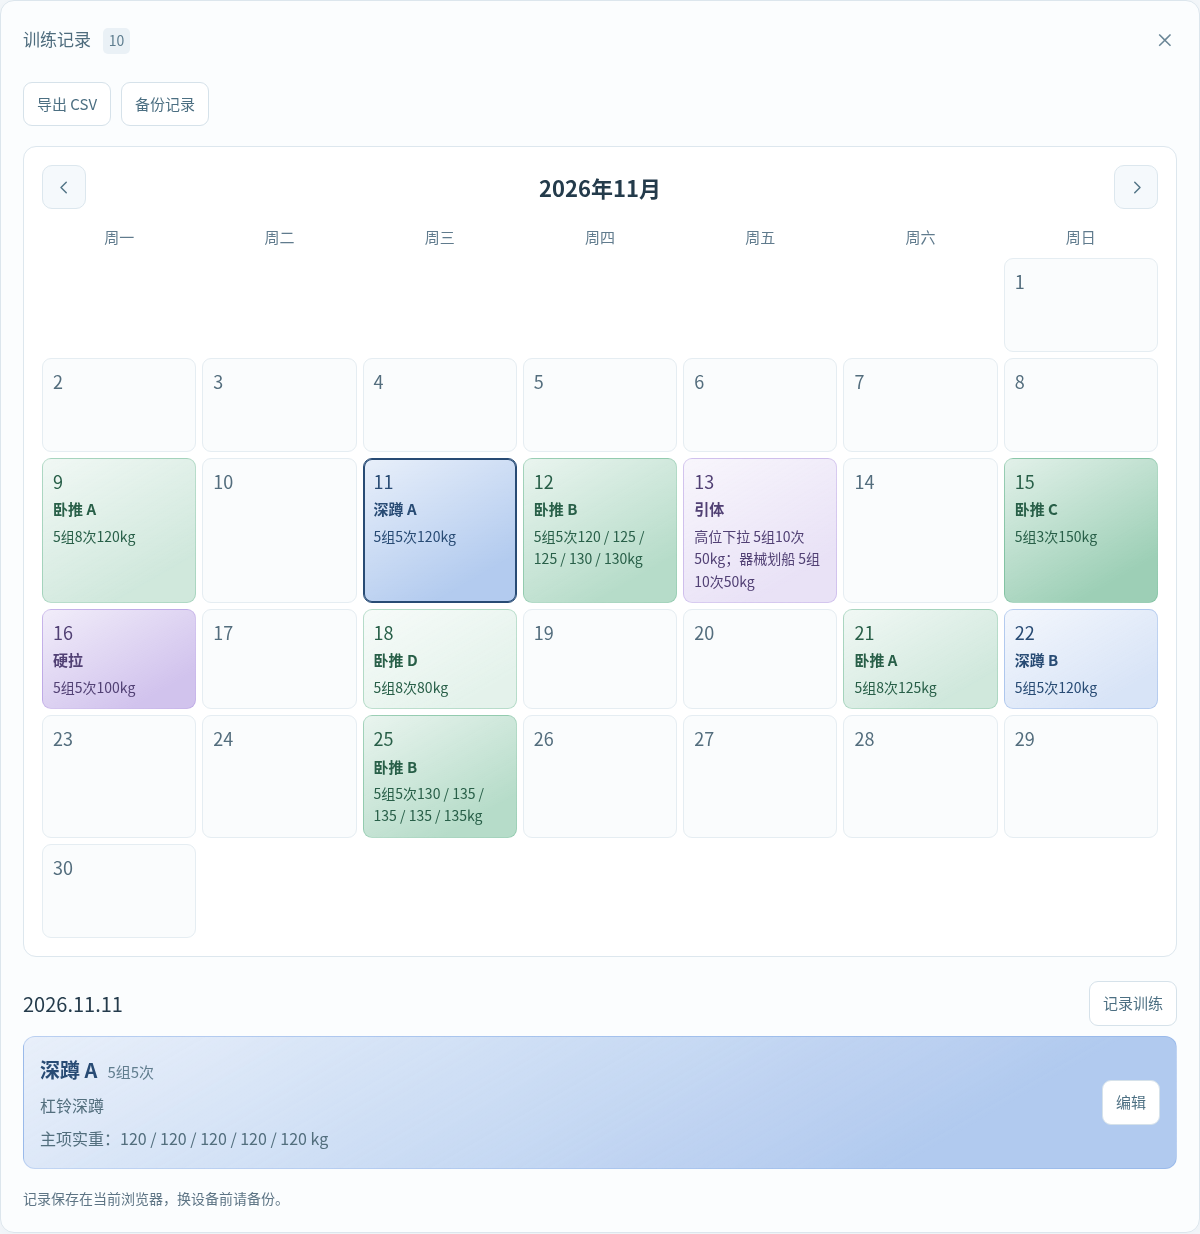
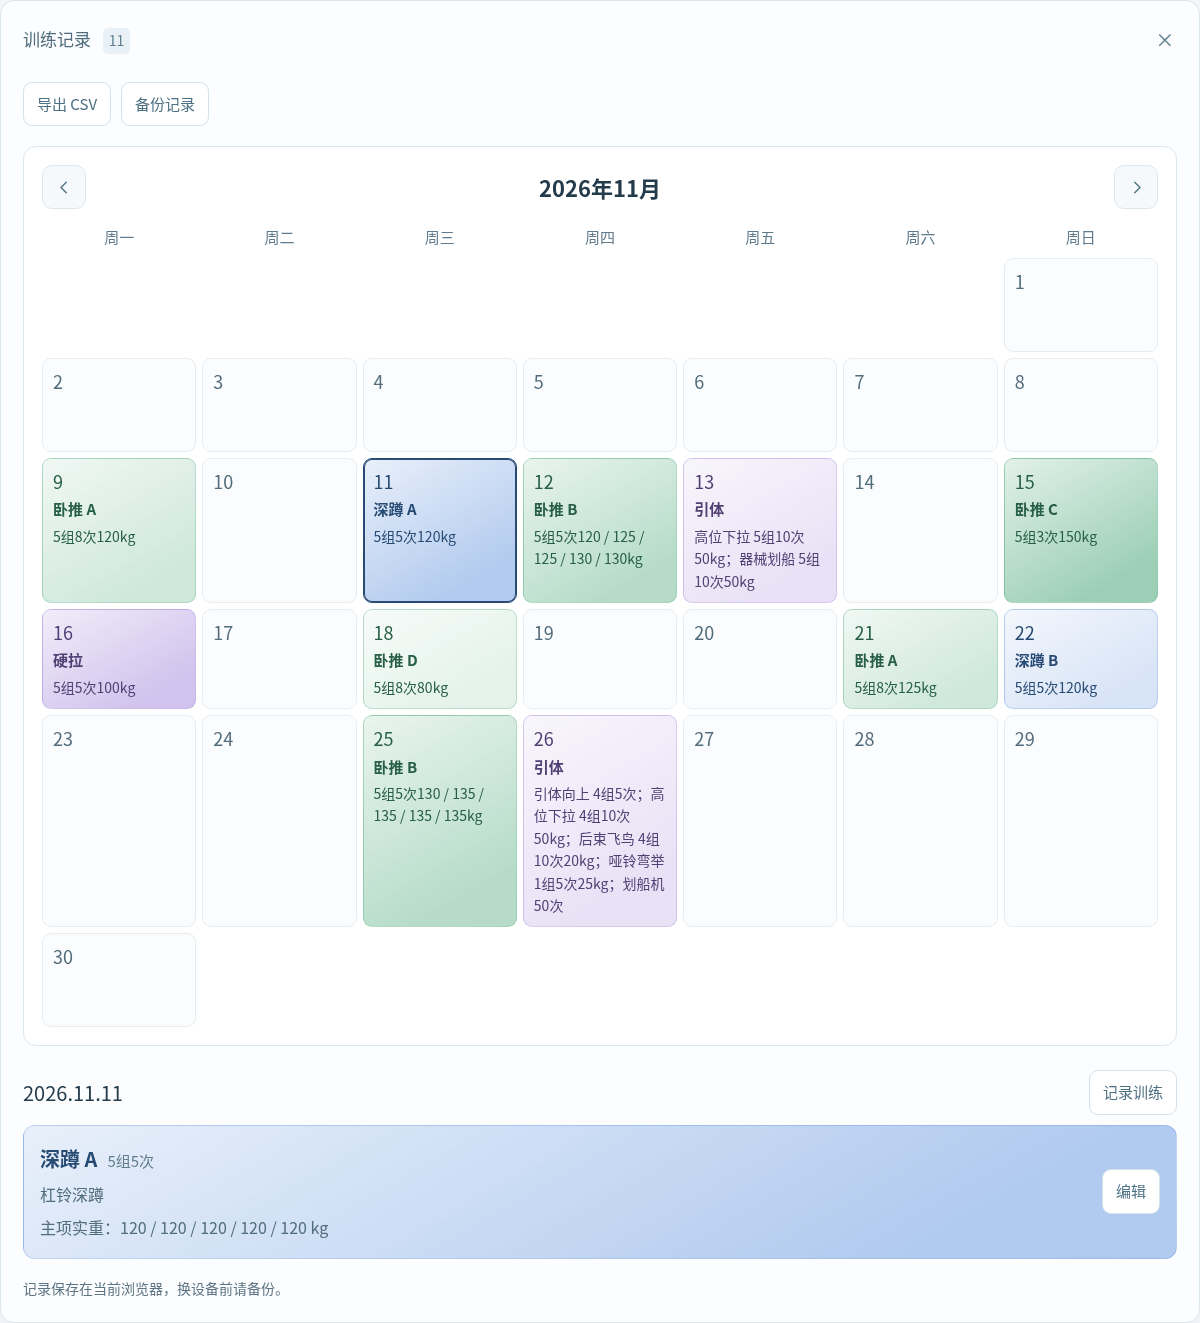
记录11月26日引体日五项训练

diff --git a/index.html b/index.html
@@ -372,7 +372,7 @@ input:disabled,select:disabled { background: #eef4f8; color: #718b9b; }
       <div class="dialog-heading"><h2 id="workout-title">训练记录</h2><button type="button" class="icon-button" id="closeWorkout" aria-label="关闭"><svg class="icon"><use href="#i-close" /></svg></button></div>
       <article id="sessionCard"></article>
     </dialog>
[2 lines of base64/hex data omitted]
     <script>
 /* 固定训练模板。参考重量不参与实际训练记录的计算。 */
 (function (root) {
@@ -414,9 +414,10 @@ input:disabled,select:disabled { background: #eef4f8; color: #718b9b; }
     return !Number.isNaN(d.getTime()) && `${d.getFullYear()}-${String(d.getMonth() + 1).padStart(2, "0")}-${String(d.getDate()).padStart(2, "0")}` === value;
   }
   function dose(exercise) {
-    if (!exercise?.sets) return "";
+    if (!exercise) return "";
     const reps = String(exercise.reps || "").replace(/\s*\/\s*腿/g, "");
-    return `${exercise.sets}组${reps ? `${reps}次` : ""}${exercise.perLeg || /\/\s*腿/.test(exercise.reps || "") ? "（每腿）" : ""}`;
+    const sets = exercise.sets ? `${exercise.sets}组` : "";
+    return `${sets}${reps ? `${reps}次` : ""}${exercise.perLeg || /\/\s*腿/.test(exercise.reps || "") ? "（每腿）" : ""}`;
   }
   function prescription(exercise) {
     if (exercise?.durationMinutes) return `${exercise.durationMinutes}分钟`;
@@ -456,7 +457,7 @@ input:disabled,select:disabled { background: #eef4f8; color: #718b9b; }
     if (record.setWeights.some(x => x !== null && (typeof x !== "number" || !Number.isFinite(x) || x < 0 || x > 500))) return "每组重量需在0–500 kg之间。";
     for (const exercise of t.equalExercises ? t.accessories : []) {
       const weights = record.additionalWeights?.[exercise.id];
-      if (!Array.isArray(weights) || weights.length !== exercise.sets || weights.some(x => x !== null && (typeof x !== "number" || !Number.isFinite(x) || x < 0 || x > 500))) return "请检查各动作的逐组重量。";
+      if (!Array.isArray(weights) || weights.length !== (exercise.sets || 0) || weights.some(x => x !== null && (typeof x !== "number" || !Number.isFinite(x) || x < 0 || x > 500))) return "请检查各动作的逐组重量。";
     }
     if (!["done", "incomplete", "paused"].includes(record.result)) return "请选择完成情况。";
     return "";
@@ -582,6 +583,32 @@ input:disabled,select:disabled { background: #eef4f8; color: #718b9b; }
     state.confirmedBenchBNov25 = true;
     persist();
   }
+  if (!state.confirmedPullupNov26) {
+    const date = "2026-11-26", templateId = "back";
+    const existing = state.records.find(record => record.date === date && record.templateId === templateId);
+    const snapshot = {
+      ...P.template(templateId), equalExercises: true,
+      main: { name: "引体向上", sets: 4, reps: "5", showWeight: false },
+      accessories: [
+        { id: "pulldown", name: "高位下拉", sets: 4, reps: "10" },
+        { id: "rear-delt-fly", name: "后束飞鸟", sets: 4, reps: "10" },
+        { id: "curl", name: "哑铃弯举", sets: 1, reps: "5" },
+        { id: "rowing-machine", name: "划船机", reps: "50", showWeight: false },
+      ],
+    };
+    const record = {
+      id: `confirmed-${date}-${templateId}`, notes: "", triceps: "", ...existing,
+      date, templateId, result: "done", setWeights: Array(4).fill(null),
+      additionalWeights: { pulldown: Array(4).fill(50), "rear-delt-fly": Array(4).fill(20), curl: [25], "rowing-machine": [] },
+      snapshot,
+    };
+    state.records = P.upsertRecord(state.records, record);
+    if (state.draft?.date === date && state.draft.templateId === templateId) {
+      state.draft = { ...state.draft, result: record.result, setWeights: [...record.setWeights], additionalWeights: clone(record.additionalWeights), snapshot: clone(snapshot) };
+    }
+    state.confirmedPullupNov26 = true;
+    persist();
+  }
   if (state !== saved) persist();
   let draft = null, noticeTimer;
   let selectedDate = state.records.map(r => r.date).sort().at(-1) || P.today(), displayedMonth = selectedDate.slice(0, 7);
@@ -692,7 +719,7 @@ input:disabled,select:disabled { background: #eef4f8; color: #718b9b; }
   }
   function collectDraft() {
     const form = new FormData($("#logForm")), t = draft.snapshot && draft.templateId === form.get("templateId") ? draft.snapshot : P.template(form.get("templateId"));
-    const additionalWeights = Object.fromEntries((t?.equalExercises ? t.accessories : []).map(a => [a.id, Array.from({ length: a.sets }, (_, i) => { const raw = String(form.get(`extra-${a.id}-${i}`) ?? "").trim(); return raw === "" ? null : Number(raw); })]));
+    const additionalWeights = Object.fromEntries((t?.equalExercises ? t.accessories : []).map(a => [a.id, Array.from({ length: a.sets || 0 }, (_, i) => { const raw = String(form.get(`extra-${a.id}-${i}`) ?? "").trim(); return raw === "" ? null : Number(raw); })]));
     return { ...draft, additionalWeights, templateId: String(form.get("templateId") || ""), date: String(form.get("date") || ""), result: String(form.get("result") || "done"), notes: String(form.get("notes") ?? draft.notes ?? "").trim(), triceps: draft.triceps || t?.accessories.find(a => a.id === "triceps")?.name || "", setWeights: Array.from({ length: t?.main?.sets || 0 }, (_, i) => { const raw = String(form.get(`weight-${i}`) ?? "").trim(); return raw === "" ? null : Number(raw); }) };
   }
   $("#planCalendar").addEventListener("click", e => { const card = e.target.closest("[data-template]"); if (card) openWorkout(card.dataset.template); });

diff --git a/项目资料/src/app.js b/项目资料/src/app.js
@@ -80,6 +80,32 @@
     state.confirmedBenchBNov25 = true;
     persist();
   }
+  if (!state.confirmedPullupNov26) {
+    const date = "2026-11-26", templateId = "back";
+    const existing = state.records.find(record => record.date === date && record.templateId === templateId);
+    const snapshot = {
+      ...P.template(templateId), equalExercises: true,
+      main: { name: "引体向上", sets: 4, reps: "5", showWeight: false },
+      accessories: [
+        { id: "pulldown", name: "高位下拉", sets: 4, reps: "10" },
+        { id: "rear-delt-fly", name: "后束飞鸟", sets: 4, reps: "10" },
+        { id: "curl", name: "哑铃弯举", sets: 1, reps: "5" },
+        { id: "rowing-machine", name: "划船机", reps: "50", showWeight: false },
+      ],
+    };
+    const record = {
+      id: `confirmed-${date}-${templateId}`, notes: "", triceps: "", ...existing,
+      date, templateId, result: "done", setWeights: Array(4).fill(null),
+      additionalWeights: { pulldown: Array(4).fill(50), "rear-delt-fly": Array(4).fill(20), curl: [25], "rowing-machine": [] },
+      snapshot,
+    };
+    state.records = P.upsertRecord(state.records, record);
+    if (state.draft?.date === date && state.draft.templateId === templateId) {
+      state.draft = { ...state.draft, result: record.result, setWeights: [...record.setWeights], additionalWeights: clone(record.additionalWeights), snapshot: clone(snapshot) };
+    }
+    state.confirmedPullupNov26 = true;
+    persist();
+  }
   if (state !== saved) persist();
   let draft = null, noticeTimer;
   let selectedDate = state.records.map(r => r.date).sort().at(-1) || P.today(), displayedMonth = selectedDate.slice(0, 7);
@@ -190,7 +216,7 @@
   }
   function collectDraft() {
     const form = new FormData($("#logForm")), t = draft.snapshot && draft.templateId === form.get("templateId") ? draft.snapshot : P.template(form.get("templateId"));
-    const additionalWeights = Object.fromEntries((t?.equalExercises ? t.accessories : []).map(a => [a.id, Array.from({ length: a.sets }, (_, i) => { const raw = String(form.get(`extra-${a.id}-${i}`) ?? "").trim(); return raw === "" ? null : Number(raw); })]));
+    const additionalWeights = Object.fromEntries((t?.equalExercises ? t.accessories : []).map(a => [a.id, Array.from({ length: a.sets || 0 }, (_, i) => { const raw = String(form.get(`extra-${a.id}-${i}`) ?? "").trim(); return raw === "" ? null : Number(raw); })]));
     return { ...draft, additionalWeights, templateId: String(form.get("templateId") || ""), date: String(form.get("date") || ""), result: String(form.get("result") || "done"), notes: String(form.get("notes") ?? draft.notes ?? "").trim(), triceps: draft.triceps || t?.accessories.find(a => a.id === "triceps")?.name || "", setWeights: Array.from({ length: t?.main?.sets || 0 }, (_, i) => { const raw = String(form.get(`weight-${i}`) ?? "").trim(); return raw === "" ? null : Number(raw); }) };
   }
   $("#planCalendar").addEventListener("click", e => { const card = e.target.closest("[data-template]"); if (card) openWorkout(card.dataset.template); });

diff --git a/项目资料/src/training.js b/项目资料/src/training.js
@@ -38,9 +38,10 @@
     return !Number.isNaN(d.getTime()) && `${d.getFullYear()}-${String(d.getMonth() + 1).padStart(2, "0")}-${String(d.getDate()).padStart(2, "0")}` === value;
   }
   function dose(exercise) {
-    if (!exercise?.sets) return "";
+    if (!exercise) return "";
     const reps = String(exercise.reps || "").replace(/\s*\/\s*腿/g, "");
-    return `${exercise.sets}组${reps ? `${reps}次` : ""}${exercise.perLeg || /\/\s*腿/.test(exercise.reps || "") ? "（每腿）" : ""}`;
+    const sets = exercise.sets ? `${exercise.sets}组` : "";
+    return `${sets}${reps ? `${reps}次` : ""}${exercise.perLeg || /\/\s*腿/.test(exercise.reps || "") ? "（每腿）" : ""}`;
   }
   function prescription(exercise) {
     if (exercise?.durationMinutes) return `${exercise.durationMinutes}分钟`;
@@ -80,7 +81,7 @@
     if (record.setWeights.some(x => x !== null && (typeof x !== "number" || !Number.isFinite(x) || x < 0 || x > 500))) return "每组重量需在0–500 kg之间。";
     for (const exercise of t.equalExercises ? t.accessories : []) {
       const weights = record.additionalWeights?.[exercise.id];
-      if (!Array.isArray(weights) || weights.length !== exercise.sets || weights.some(x => x !== null && (typeof x !== "number" || !Number.isFinite(x) || x < 0 || x > 500))) return "请检查各动作的逐组重量。";
+      if (!Array.isArray(weights) || weights.length !== (exercise.sets || 0) || weights.some(x => x !== null && (typeof x !== "number" || !Number.isFinite(x) || x < 0 || x > 500))) return "请检查各动作的逐组重量。";
     }
     if (!["done", "incomplete", "paused"].includes(record.result)) return "请选择完成情况。";
     return "";

diff --git a/README.md b/README.md
@@ -2,7 +2,7 @@
 
 固定训练模板与个人日志。8种模板不绑定日期；训练时选择日期和模板，各组实重独立填写，可重复记录和编辑。记录展开为月历，每天直接显示主项实重，没训练的日期留空。
 
-已记入2026年11月9日卧推A、11日深蹲A、12日卧推B、13日引体日（主项未做）、15日卧推C、16日硬拉、18日卧推D、21日卧推A、22日无装深蹲B和25日卧推B。15日卧推C按计划五组均为150 kg；16日硬拉五组100 kg，18日卧推D五组8次均为80 kg。11月19日无训练。21日卧推A为5组8次125 kg，22日深蹲B为5组5次120 kg。25日卧推B每组5次，首组130 kg，后四组135 kg。11日深蹲A五组均为120 kg；12日卧推B五组为120、125、125、130、130 kg。所有模板重量均为参考。
+已记入2026年11月9日卧推A、11日深蹲A、12日卧推B、13日引体日（主项未做）、15日卧推C、16日硬拉、18日卧推D、21日卧推A、22日无装深蹲B、25日卧推B和26日引体日。15日卧推C按计划五组均为150 kg；16日硬拉五组100 kg，18日卧推D五组8次均为80 kg。11月19日无训练。21日卧推A为5组8次125 kg，22日深蹲B为5组5次120 kg。25日卧推B每组5次，首组130 kg，后四组135 kg。11日深蹲A五组均为120 kg；12日卧推B五组为120、125、125、130、130 kg。所有模板重量均为参考。
 
 双击[index.html](index.html)可离线使用；[健身计划.zip](健身计划.zip)可分享。[完整模板预览](项目资料/示例/完整计划表.png)。记录保存在当前浏览器，可导出CSV和JSON；旧版数据保留。
 

diff --git a/项目资料/docs/使用说明.md b/项目资料/docs/使用说明.md
@@ -26,3 +26,5 @@
 2026年11月13日记为引体日，主项引体向上未做。高位下拉、器械划船均完成5组10次50 kg。
 
 2026年11月15日卧推C按计划完成5组3次150kg；11月16日硬拉五组均记100kg。11月18日卧推D为5组8次，五组均为80kg。11月19日无训练。11月21日卧推A完成5组8次125 kg，11月22日无装深蹲B完成5组5次120 kg。11月25日卧推B每组5次，首组130 kg，后四组135 kg。电脑上卧推一排，深蹲A、深蹲B、硬拉、引体依次排在另一排。平板双列，手机单列；手机所有动作完整展示，无需横向滑动。记录弹窗中五组重量同排输入，可用“同首组”快速填写。
+
+11月26日引体日记录了引体向上4组5次、高位下拉50 kg 4组10次、后束飞鸟20 kg 4组10次、哑铃弯举25 kg 1组5次，以及划船机50次。
